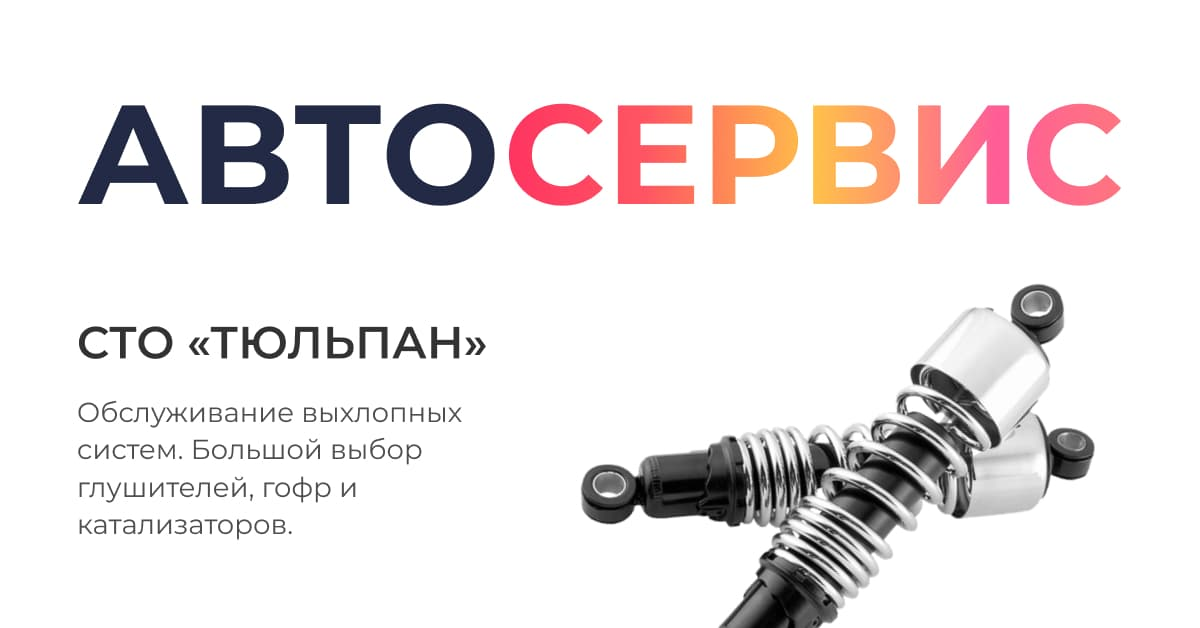
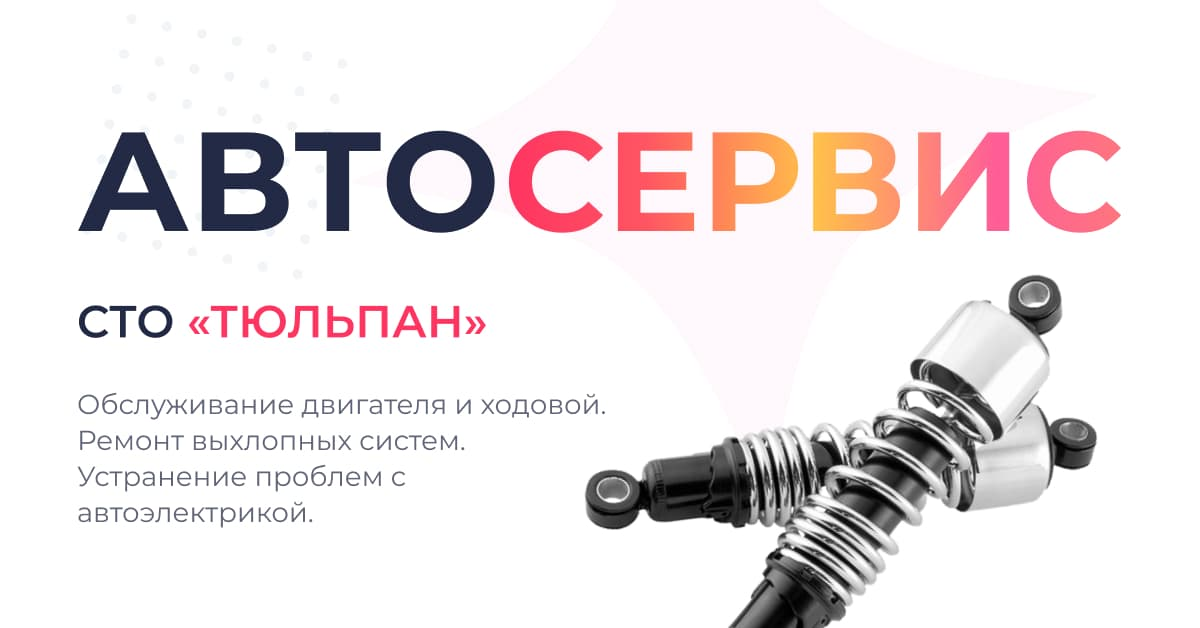
Update seo

diff --git a/next-seo.config.js b/next-seo.config.js
@@ -1,14 +1,14 @@
 export default {
   title: "СТО Тюльпан - Автосервис и ремонт выхлопных систем",
   description:
-    "Автосервис возле метро Сырец. Ремонт и обслуживание выхлопных систем. Подгон и импорт деталей любых моделей на заказ. Большой выбор качественных запчастей по минимальным ценам.",
+    "Автосервис возле метро Сырец. Ремонт и обслуживание двигателей, ходовой, выхлопных систем. Подгон и импорт деталей любых моделей на заказ. Большой выбор качественных запчастей по минимальным ценам.",
   canonical: "https://www.tulpan.now.sh/",
   openGraph: {
     url: "https://www.tulpan.now.sh/",
     title: "СТО Тюльпан - Автосервис и Ремонт выхлопных систем",
     type: "website",
     description:
-      "Автосервис возле метро Сырец. Ремонт и обслуживание выхлопных систем. Подгон и импорт деталей любых моделей на заказ. Большой выбор качественных запчастей по минимальным ценам.",
+      "Автосервис возле метро Сырец. Ремонт и обслуживание двигателей, ходовой, выхлопных систем. Подгон и импорт деталей любых моделей на заказ. Большой выбор качественных запчастей по минимальным ценам.",
     images: [
       {
         url: "https://tulpan.now.sh/preview.jpg",
